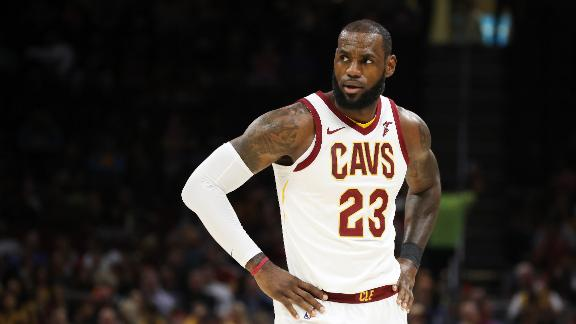
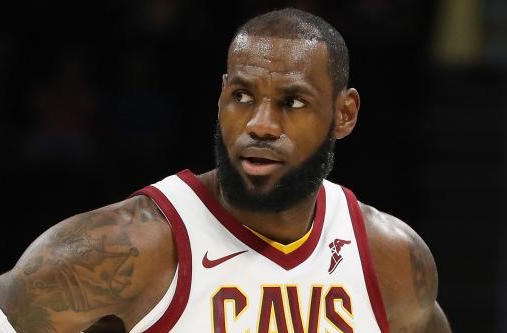
adds pictures and more team stats

diff --git a/app/assets/stylesheets/teams.css b/app/assets/stylesheets/teams.css
@@ -10,23 +10,37 @@
 .western-name {
   text-align: right;
   color: yellow;
-  border: 1px grey dashed;
+  border: 1px grey dotted;
   float: left;
   width: 400px;
-  padding: 100px 5px 0px 10px;
+  padding: 150px 5px 0px 10px;
   justify-content: space-around;
-  background-image: url("cp3.jpg");
+  background-image: url("cp3.jpg"),
+                    url("draymond.jpg"),
+                    url("kawhi.jpg"),
+                    url("butler.jpg"),
+                    url("joker.jpg"),
+                    url("dame.jpg"),
+                    url("boogie.jpg"),
+                    url("gobert.jpg");
 }
 
 .eastern-name {
   text-align: right;
-  color: white;
+  color: maroon;
   border: 1px green dashed;
   float: right;
   width: 400px;
-  padding: 100px 5px 0px 10px;
+  padding: 150px 5px 0px 10px;
   justify-content: space-around;
-  background-image: url("kyrie.jpg");
+  background-image: url("kyrie.jpg"),
+                    url("bron.jpg"),
+                    url("kyle.jpg"),
+                    url("g.jpg"),
+                    url("victor.jpg"),
+                    url("wall.jpg"),
+                    url("unicorn.jpg"),
+                    url("drummond.jpg");
 }
 
 .western-conf {

diff --git a/app/assets/stylesheets/home.css b/app/assets/stylesheets/home.css
@@ -1,16 +1,12 @@
 body {
   background-color: black;
   margin: 0;
+  /*background-image: url("bron.jpg");*/
 }
 
-.home-page {
+.home-page-image {
   position: relative;
   top: 10px;
   border: 2px red dashed;
-}
-
-.home-page {
-  position: relative;
-  top: 10px;
-  border: 2px red dashed;
+  background-size: auto;
 }

diff --git a/app/models/team.rb b/app/models/team.rb
@@ -1,7 +1,9 @@
 class Team
 
   attr_reader :name, :abbrev, :fg_pct, :wins,
-              :losses, :fouls_drawn_pg, :fouls_pg
+              :losses, :fouls_drawn_pg, :fouls_pg,
+              :threes, :ast_pg, :o_reb_pg, :d_reb_pg,
+              :ft_pg, :ppg
 
   def initialize(team)
     @name = team["team"]["Name"]
@@ -9,8 +11,14 @@ class Team
     @fg_pct = team["stats"]["FgPct"]["#text"]
     @wins = team["stats"]["Wins"]["#text"]
     @losses = team["stats"]["Losses"]["#text"]
-    @fouls_dwawn_pg = team["stats"]["FoulsDrawnPerGame"]["#text"]
+    @fouls_drawn_pg = team["stats"]["FoulsDrawnPerGame"]["#text"]
     @fouls_pg = team["stats"]["FoulPersPerGame"]["#text"]
+    @threes = team["stats"]["Fg3PtMadePerGame"]["#text"]
+    @ast_pg = team["stats"]["AstPerGame"]["#text"]
+    @o_reb_pg = team["stats"]["OffRebPerGame"]["#text"]
+    @d_reb_pg = team["stats"]["DefRebPerGame"]["#text"]
+    @ft_pg = team["stats"]["FtAttPerGame"]["#text"]
+    @ppg = team["stats"]["PtsPerGame"]["#text"]
   end
 
 end

diff --git a/app/models/conference.rb b/app/models/conference.rb
@@ -1,9 +1,11 @@
 class Conference
-  attr_reader :name, :conference_teams
+  attr_reader :name, :conference_teams, :east_images, :west_images
 
   def initialize(conference)
     @name = conference["@name"]
     @conference_teams = format_teams(conference)
+    @west_images = ["boogie.jpg","butler"]
+    @east_images = ["bron.jpg","kyrie"]
   end
 
   def format_teams(conference)

diff --git a/app/controllers/teams_controller.rb b/app/controllers/teams_controller.rb
@@ -12,6 +12,5 @@ class TeamsController < ApplicationController
                             )
     @conference_results = data["conferenceteamstandings"]["conference"]
     .map { |conference| Conference.new(conference)}.reverse
-    @current_uri = request.env['PATH_INFO']
   end
 end

diff --git a/app/controllers/application_controller.rb b/app/controllers/application_controller.rb
@@ -1,3 +1,10 @@
 class ApplicationController < ActionController::Base
   protect_from_forgery with: :exception
+
+  helper_method :current_uri
+
+  def current_uri
+    @current_uri = request.env['PATH_INFO']
+  end
+
 end
